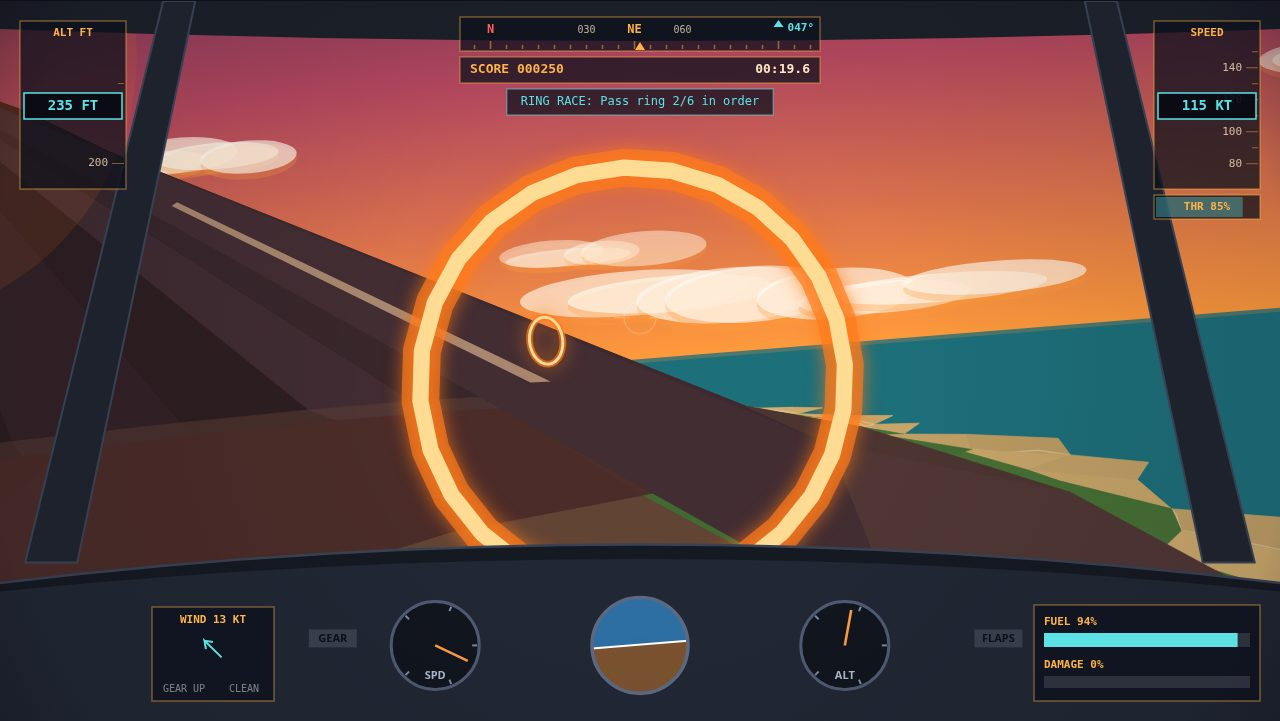
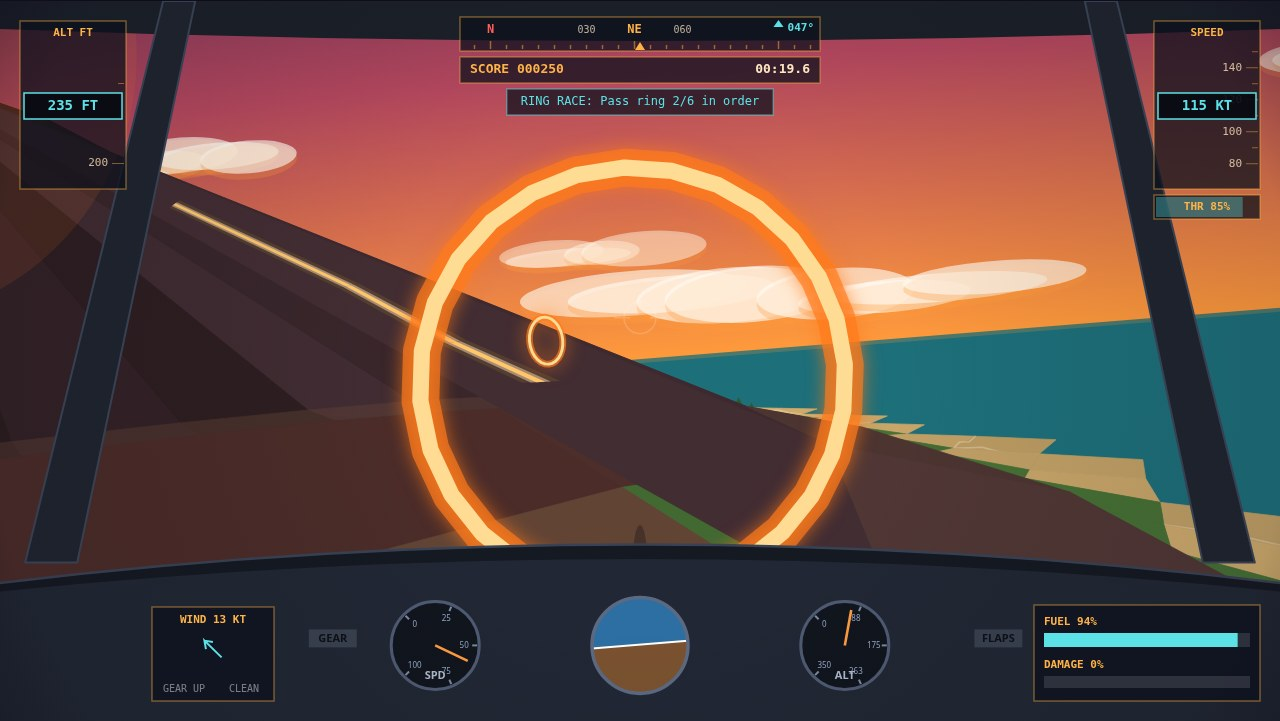
R4 (main-session push): smooth fbm coastline displacement (kills R3 sawtooth), lava flows as meandering 3-pass glowing ribbons, cockpit dial numerals + nose cowling with prop blur

diff --git a/game/src/render.js b/game/src/render.js
@@ -41,15 +41,21 @@ export function smoothVary(x, z) {
   return fbm(x * 0.0042, z * 0.0042, 3, 77);
 }
 
-// Seeded vertex jitter: displaces a terrain grid vertex by up to ±9 m in
-// x/z. A pure function of the grid coordinates, so the quads sharing a
-// vertex move it identically — no cracks, no shimmer, staged screenshots
-// stay deterministic. Breaks the straight grid lines that made the
-// coastline read as square blocks.
+// Seeded vertex displacement: moves a terrain grid vertex by up to ±9 m
+// in x/z. A pure function of the grid coordinates, so the quads sharing
+// a vertex move it identically — no cracks, no shimmer, staged
+// screenshots stay deterministic. The displacement samples a SMOOTH
+// fbm field (features ~140 m wide), so neighbouring vertices drift
+// together and the coastline bends in gentle curves. (R3 sampled
+// white-noise hash2 per vertex: adjacent vertices jumped ±9 m
+// independently, and both AI reviewers read the result as a sawtooth /
+// glitch coastline — worst in the high landing shot.)
 export function terrainJitter(x, z) {
+  const jx = (fbm(x * 0.0072, z * 0.0072, 2, 131) - 0.5) * 18;
+  const jz = (fbm(x * 0.0072, z * 0.0072, 2, 271) - 0.5) * 18;
   return {
-    x: (hash2(x, z + 11) - 0.5) * 18,
-    z: (hash2(x + 29, z) - 0.5) * 18,
+    x: Math.max(-9, Math.min(9, jx)),
+    z: Math.max(-9, Math.min(9, jz)),
   };
 }
 
@@ -771,9 +777,14 @@ function drawTerrainAndVolcano(ctx, cam, world, pal, W, H, time) {
       }
       // Lava flows: a few seeded wedges carry a warm flow from below the
       // crater down the flank, so the volcano reads as ALIVE and the dark
-      // mass breaks up. Each flow is a tapered triangle on the cone's
-      // mid-angle ray (a straight cone generator, so points on the ray sit
-      // on the surface), widened ±9 m at its foot.
+      // mass breaks up. Each flow is a ribbon on the cone's mid-angle ray
+      // (a straight cone generator, so points on the ray sit on the
+      // surface), built from 4 stations that wander sideways by a seeded
+      // amount — a meandering channel, not a straight stripe — and drawn
+      // in three passes (dark crust edge, molten body, bright core) so
+      // it reads as glowing lava. (R3 drew one flat straight quad per
+      // flow; both AI reviewers read it as a pale road painted on the
+      // cone.)
       for (let i = 0; i < wedges.length; i++) {
         const w = wedges[i];
         if (hash2(w.idx * 13.7, 9.2) <= 0.65) continue;
@@ -785,31 +796,45 @@ function drawTerrainAndVolcano(ctx, cam, world, pal, W, H, time) {
             z: vz + (w.bzm - vz) * t,
           };
         };
-        const top = surf(120);
-        const foot = surf(470);
         const px = -Math.sin(w.am);
         const pz = Math.cos(w.am);
-        const tl = { x: top.x + px * 6, y: top.y, z: top.z + pz * 6 };
-        const tr = { x: top.x - px * 6, y: top.y, z: top.z - pz * 6 };
-        const bl = { x: foot.x + px * 18, y: foot.y, z: foot.z + pz * 18 };
-        const br = { x: foot.x - px * 18, y: foot.y, z: foot.z - pz * 18 };
-        tmpPt.x = tl.x; tmpPt.y = tl.y; tmpPt.z = tl.z;
-        const ptl = project(cam, tmpPt);
-        tmpPt.x = tr.x; tmpPt.y = tr.y; tmpPt.z = tr.z;
-        const ptr = project(cam, tmpPt);
-        tmpPt.x = bl.x; tmpPt.y = bl.y; tmpPt.z = bl.z;
-        const pl = project(cam, tmpPt);
-        tmpPt.x = br.x; tmpPt.y = br.y; tmpPt.z = br.z;
-        const pr = project(cam, tmpPt);
-        if (ptl.behind || ptr.behind || pl.behind || pr.behind) continue;
-        ctx.fillStyle = shadeColor(pal.lava, 1.0, 0.5);
-        ctx.beginPath();
-        ctx.moveTo(ptl.x, ptl.y);
-        ctx.lineTo(ptr.x, ptr.y);
-        ctx.lineTo(pr.x, pr.y);
-        ctx.lineTo(pl.x, pl.y);
-        ctx.closePath();
-        ctx.fill();
+        const radii = [120, 235, 350, 470];
+        const halfW = [6, 9, 13, 18];
+        const centres = radii.map((r, k) => {
+          const c = surf(r);
+          const wander = (hash2(w.idx * 3.1 + 5, k * 7.7) - 0.5) * (k === 0 || k === 3 ? 6 : 18);
+          return { x: c.x + px * wander, y: c.y, z: c.z + pz * wander };
+        });
+        const passes = [
+          { f: 1.9, col: shadeColor(pal.lava, 0.45, 0.3) },
+          { f: 1.0, col: shadeColor(pal.lava, 1.05, 0.45) },
+          { f: 0.45, col: shadeColor('#ffc46b', 1.0, 0.1) },
+        ];
+        for (const pass of passes) {
+          const pts = [];
+          let bad = false;
+          for (let k = 0; k < centres.length; k++) {
+            const c = centres[k];
+            const hw = halfW[k] * pass.f;
+            tmpPt.x = c.x + px * hw; tmpPt.y = c.y; tmpPt.z = c.z + pz * hw;
+            const pl2 = project(cam, tmpPt);
+            tmpPt.x = c.x - px * hw; tmpPt.y = c.y; tmpPt.z = c.z - pz * hw;
+            const pr2 = project(cam, tmpPt);
+            if (pl2.behind || pr2.behind) { bad = true; break; }
+            pts.push([{ x: pl2.x, y: pl2.y }, { x: pr2.x, y: pr2.y }]);
+          }
+          if (bad) continue;
+          ctx.fillStyle = pass.col;
+          for (let k = 0; k < pts.length - 1; k++) {
+            ctx.beginPath();
+            ctx.moveTo(pts[k][0].x, pts[k][0].y);
+            ctx.lineTo(pts[k][1].x, pts[k][1].y);
+            ctx.lineTo(pts[k + 1][1].x, pts[k + 1][1].y);
+            ctx.lineTo(pts[k + 1][0].x, pts[k + 1][0].y);
+            ctx.closePath();
+            ctx.fill();
+          }
+        }
       }
       ctx.fillStyle = '#ff6422';
       ctx.beginPath();
@@ -1345,6 +1370,28 @@ function drawCockpitFrame(ctx, game, W, H) {
   drawStrut(W * 0.14, W * 0.04, 16, 26);
   drawStrut(W * 0.86, W * 0.96, 16, 26);
 
+  // Engine nose cowling: a dark hood hump rising over the glareshield at
+  // centre, with a translucent prop-blur disc on its face — from the
+  // cockpit you now see the aircraft's own nose, not a floating camera.
+  // (Both AI reviewers flagged the missing nose/propeller.) Drawn before
+  // the glareshield so only the hump's crescent clears its top edge.
+  ctx.fillStyle = '#262e3d';
+  ctx.beginPath();
+  ctx.moveTo(W * 0.365, H * 0.86);
+  ctx.quadraticCurveTo(W * 0.5, H * 0.715, W * 0.635, H * 0.86);
+  ctx.closePath();
+  ctx.fill();
+  ctx.strokeStyle = 'rgba(255,255,255,0.13)';
+  ctx.lineWidth = 2;
+  ctx.beginPath();
+  ctx.moveTo(W * 0.365, H * 0.86);
+  ctx.quadraticCurveTo(W * 0.5, H * 0.715, W * 0.635, H * 0.86);
+  ctx.stroke();
+  ctx.fillStyle = 'rgba(8,10,14,0.30)';
+  ctx.beginPath();
+  ctx.ellipse(W * 0.5, H * 0.775, 7, 34, 0, 0, Math.PI * 2);
+  ctx.fill();
+
   // Glareshield
   ctx.fillStyle = '#151922';
   ctx.beginPath();
@@ -1371,7 +1418,7 @@ function drawCockpitFrame(ctx, game, W, H) {
   ctx.closePath();
   ctx.fill();
 
-  const drawDial = (gx, gy, r, label, normVal) => {
+  const drawDial = (gx, gy, r, label, normVal, maxVal) => {
     ctx.fillStyle = '#11151d';
     ctx.strokeStyle = '#4f5b73';
     ctx.lineWidth = 3;
@@ -1390,6 +1437,18 @@ function drawCockpitFrame(ctx, game, W, H) {
       ctx.lineTo(gx + Math.cos(ta) * (r - 2), gy + Math.sin(ta) * (r - 2));
       ctx.stroke();
     }
+    // Scale numerals at each tick — ticks alone still read as an
+    // unfinished placeholder to the reviewers; numbers make the dial a
+    // real instrument.
+    ctx.fillStyle = '#93a5c4';
+    ctx.font = '8px system-ui, sans-serif';
+    ctx.textAlign = 'center';
+    ctx.textBaseline = 'middle';
+    for (let t = 0; t <= 4; t++) {
+      const ta = -Math.PI * 0.75 + (t / 4) * Math.PI * 1.5;
+      ctx.fillText(String(Math.round((maxVal * t) / 4)), gx + Math.cos(ta) * (r - 15), gy + Math.sin(ta) * (r - 15));
+    }
+    ctx.textBaseline = 'alphabetic';
     const ang = -Math.PI * 0.75 + Math.max(0, Math.min(1, normVal)) * Math.PI * 1.5;
     ctx.strokeStyle = '#ff9d42';
     ctx.lineWidth = 2.6;
@@ -1404,8 +1463,8 @@ function drawCockpitFrame(ctx, game, W, H) {
   };
 
   const gy = H * 0.895;
-  drawDial(W * 0.34, gy, 44, 'SPD', (p.speed || 0) / 100);
-  drawDial(W * 0.66, gy, 44, 'ALT', (p.pos.y || 0) / 350);
+  drawDial(W * 0.34, gy, 44, 'SPD', (p.speed || 0) / 100, 100);
+  drawDial(W * 0.66, gy, 44, 'ALT', (p.pos.y || 0) / 350, 350);
 
   // Attitude indicator center dial
   const ax = W * 0.5;
